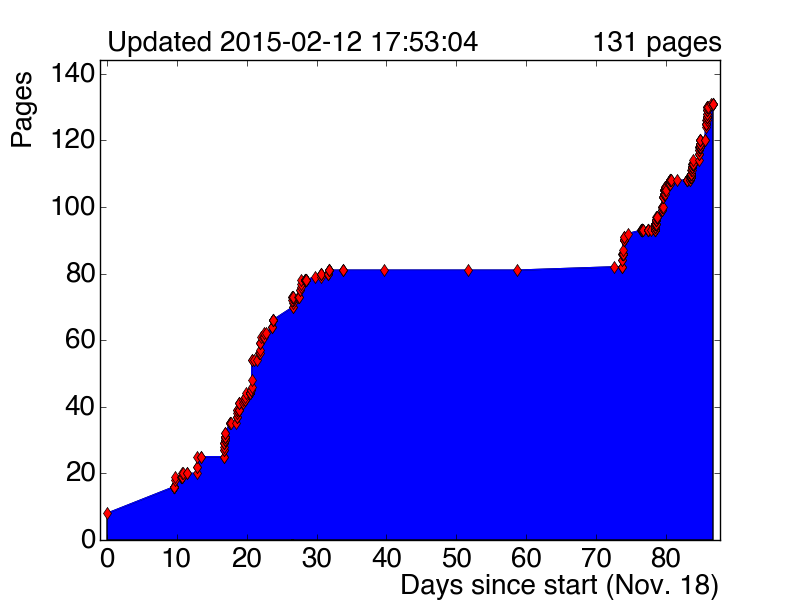
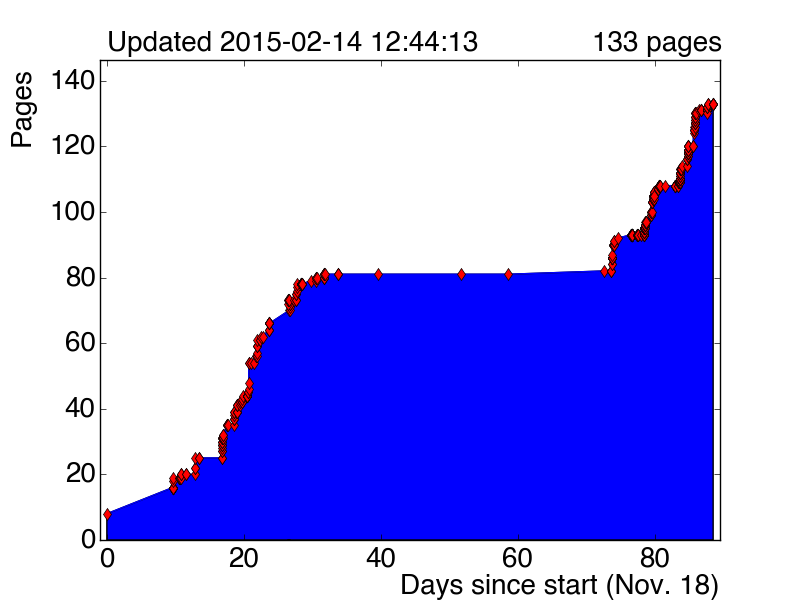
push pages

diff --git a/pages.md b/pages.md
@@ -476,3 +476,50 @@
 + [2015-02-12-17h49m59s] 131
 + [2015-02-12-17h50m39s] 131
 + [2015-02-12-17h53m04s] 131
++ [2015-02-13-14h07m50s] 131
++ [2015-02-13-14h11m36s] 131
++ [2015-02-13-14h12m46s] 131
++ [2015-02-13-14h13m45s] 131
++ [2015-02-13-14h32m05s] 131
++ [2015-02-13-14h42m25s] 131
++ [2015-02-13-14h43m46s] 131
++ [2015-02-13-14h46m56s] 131
++ [2015-02-13-14h48m06s] 131
++ [2015-02-13-14h51m30s] 131
++ [2015-02-13-14h52m12s] 131
++ [2015-02-13-14h52m57s] 131
++ [2015-02-13-14h53m50s] 131
++ [2015-02-13-14h55m22s] 131
++ [2015-02-13-14h57m52s] 131
++ [2015-02-13-15h00m56s] 131
++ [2015-02-13-15h09m11s] 131
++ [2015-02-13-15h10m27s] 131
++ [2015-02-13-15h11m24s] 131
++ [2015-02-13-15h12m12s] 131
++ [2015-02-13-15h13m58s] 131
++ [2015-02-13-15h14m29s] 131
++ [2015-02-13-15h16m09s] 131
++ [2015-02-13-15h20m16s] 131
++ [2015-02-13-15h22m00s] 131
++ [2015-02-13-15h26m30s] 131
++ [2015-02-13-15h27m21s] 131
++ [2015-02-13-15h29m58s] 131
++ [2015-02-13-15h30m36s] 131
++ [2015-02-13-15h33m02s] 131
++ [2015-02-13-15h43m44s] 131
++ [2015-02-13-15h47m05s] 131
++ [2015-02-13-16h08m06s] 131
++ [2015-02-13-16h27m56s] 130
++ [2015-02-13-16h28m50s] 132
++ [2015-02-13-16h40m24s] 132
++ [2015-02-13-16h42m38s] 132
++ [2015-02-13-16h49m21s] 132
++ [2015-02-13-17h08m45s] 133
++ [2015-02-13-17h09m56s] 133
++ [2015-02-14-12h18m54s] 133
++ [2015-02-14-12h20m26s] 133
++ [2015-02-14-12h20m48s] 133
++ [2015-02-14-12h31m26s] 133
++ [2015-02-14-12h32m18s] 133
++ [2015-02-14-12h36m33s] 133
++ [2015-02-14-12h44m13s] 133
